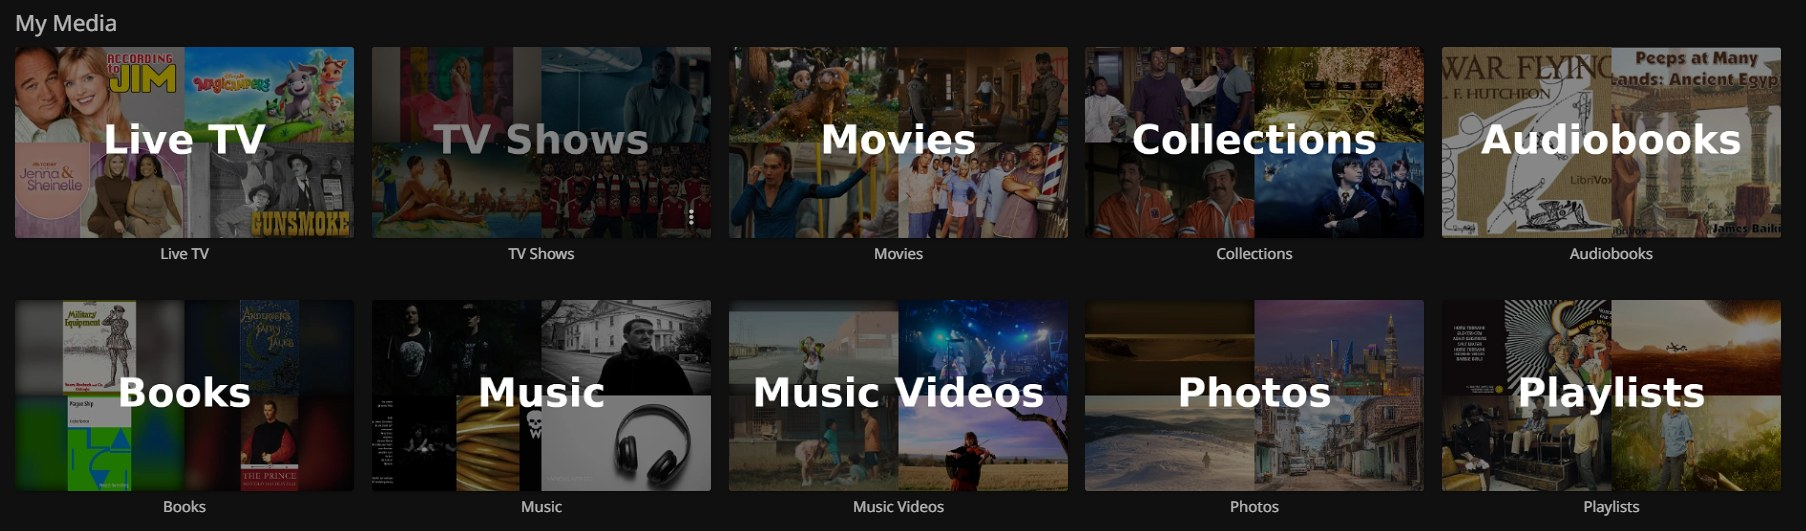
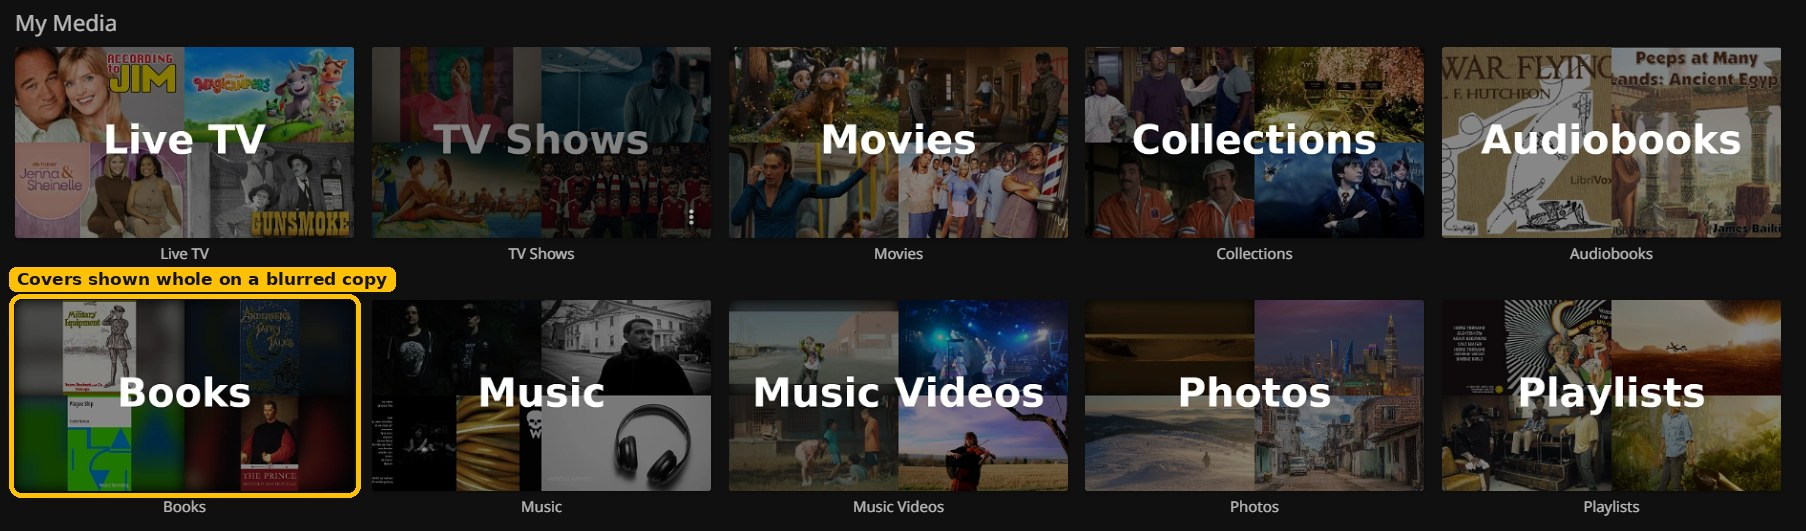
README: highlight the Books card to show the crop setting's effect

Changed region(s): [[0.0, 0.4821, 0.2171, 0.9642]]

diff --git a/README.md b/README.md
@@ -29,12 +29,13 @@ music, music videos, photos and playlists. The Playlists card is built from what
 playlists (here music, music videos, movies and episodes) rather than Jellyfin's playlist mosaics.
 With **Crop square and portrait art to fill its tile** off (the
 default), covers whose shape is far from their tile's are shown whole on a blurred copy of
-themselves, as in the Audiobooks and Books cards:
+themselves, as on the highlighted Books card:
 
 ![Title cards for every library type, with the crop setting off](docs/images/libraries-crop-off.jpg)
 
-With the setting on, covers are cropped to fill their tiles (the artwork differs between the two
-screenshots because each refresh picks a fresh random sample):
+With the setting on, covers are cropped to fill their tiles edge to edge, as on the highlighted
+Books card (the artwork differs between the two screenshots because each refresh picks a fresh
+random sample):
 
 ![Title cards for every library type, with the crop setting on](docs/images/libraries-crop-on.jpg)
 
